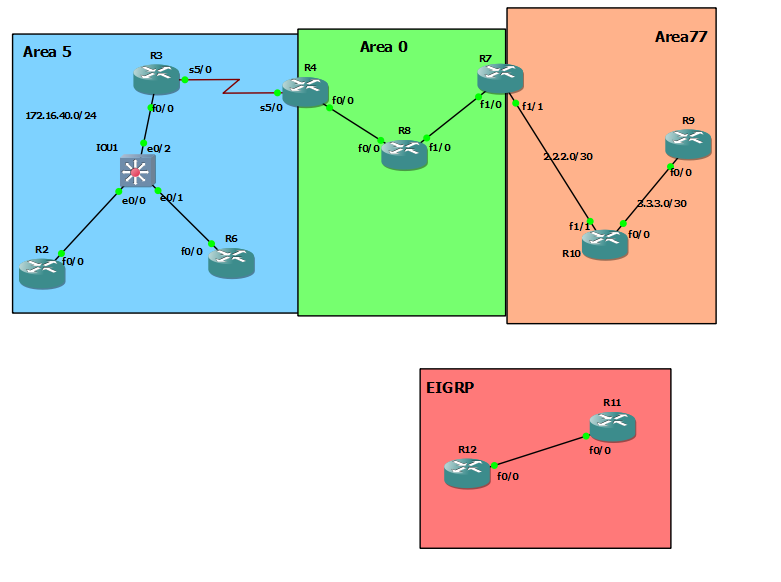
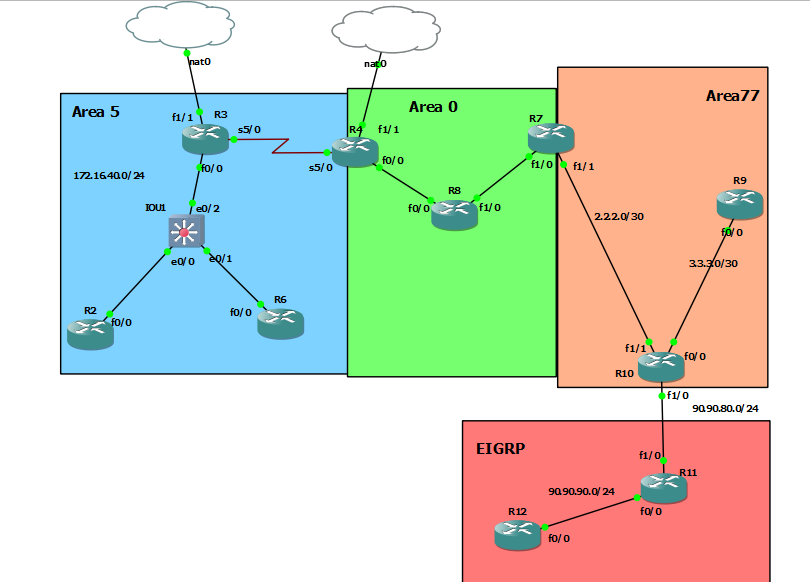
resolve image

diff --git a/1.1-route-redistribution-ospf-eigrp/README.md b/1.1-route-redistribution-ospf-eigrp/README.md
@@ -14,10 +14,20 @@ no sh
 ip address 10.10.34.3 255.255.255.0
 
 
+interface FastEthernet1/1
+no sh
+ip address 10.10.122.3 255.255.255.0
+
+
+ip route 0.0.0.0 0.0.0.0 10.10.122.1
+
+
 router ospf 1
 router-id 3.3.3.3
 network 172.16.40.3 0.0.0.0 area 5
 network 10.10.34.3 0.0.0.0 area 5
+default-information originate metric 3
+
 
 
 sh ip protocols
@@ -82,11 +92,18 @@ no sh
 ip address 10.10.34.4 255.255.255.0
 
 
+interface FastEthernet1/1
+no sh
+ip address 10.10.122.100 255.255.255.0
+
+
+ip route 0.0.0.0 0.0.0.0 10.10.122.1
+
 router ospf 1
 router-id 4.4.4.4
 network 10.10.48.4 0.0.0.0 area 0
 network 10.10.34.4 0.0.0.0 area 5
-
+default-information originate metric 4
 
 
 
